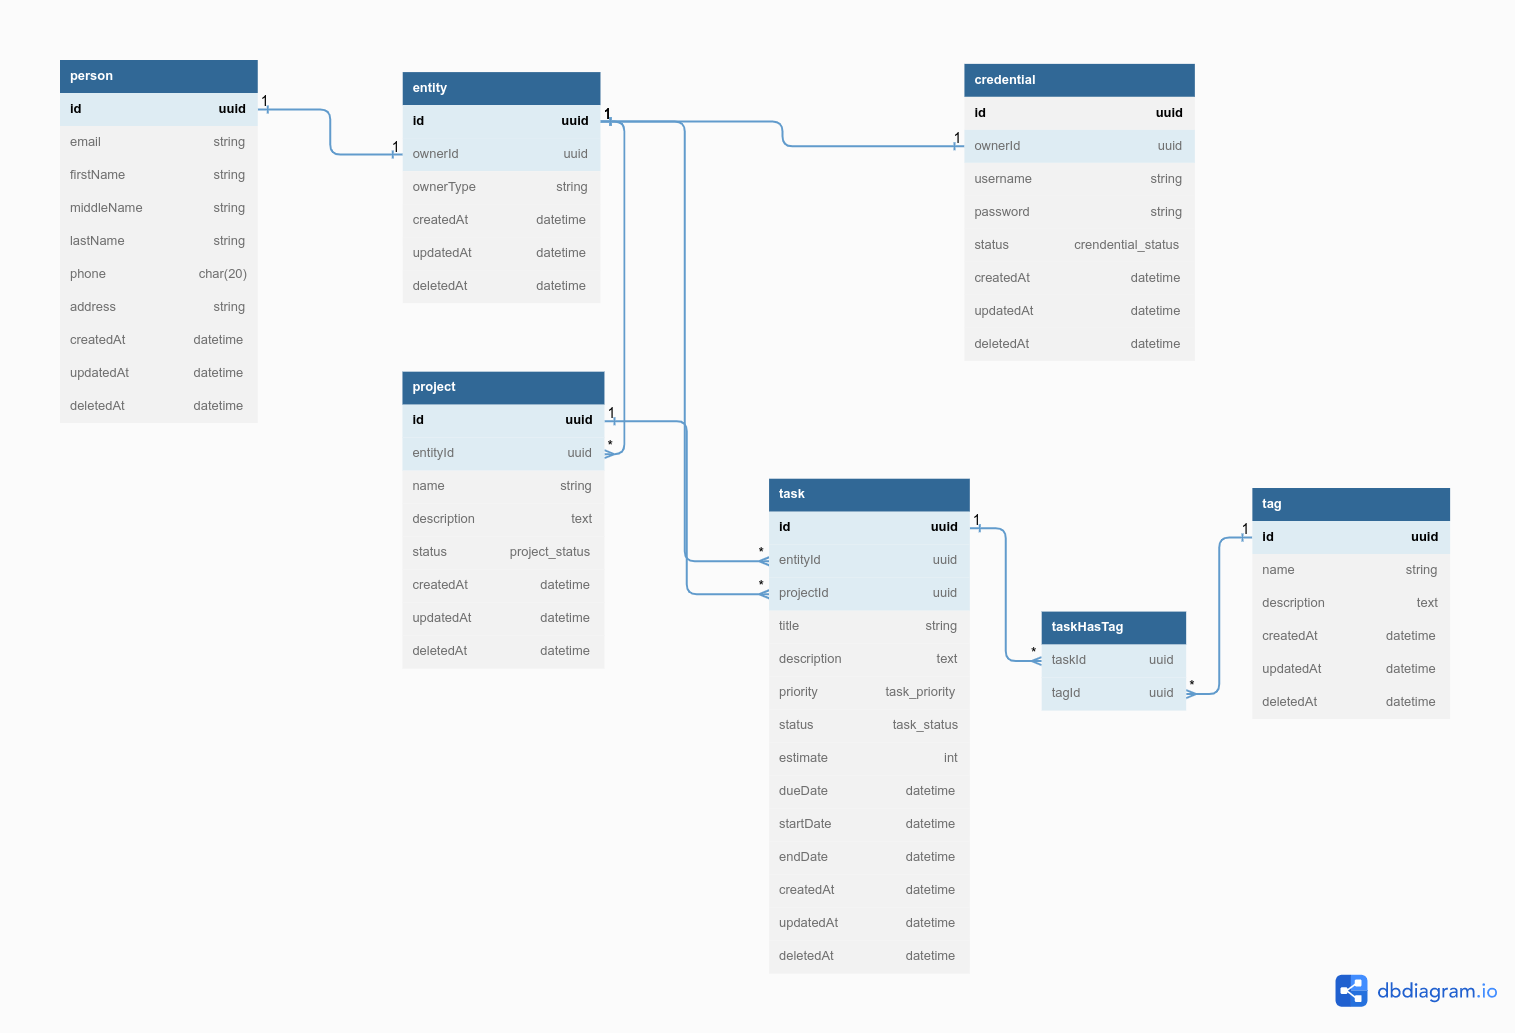
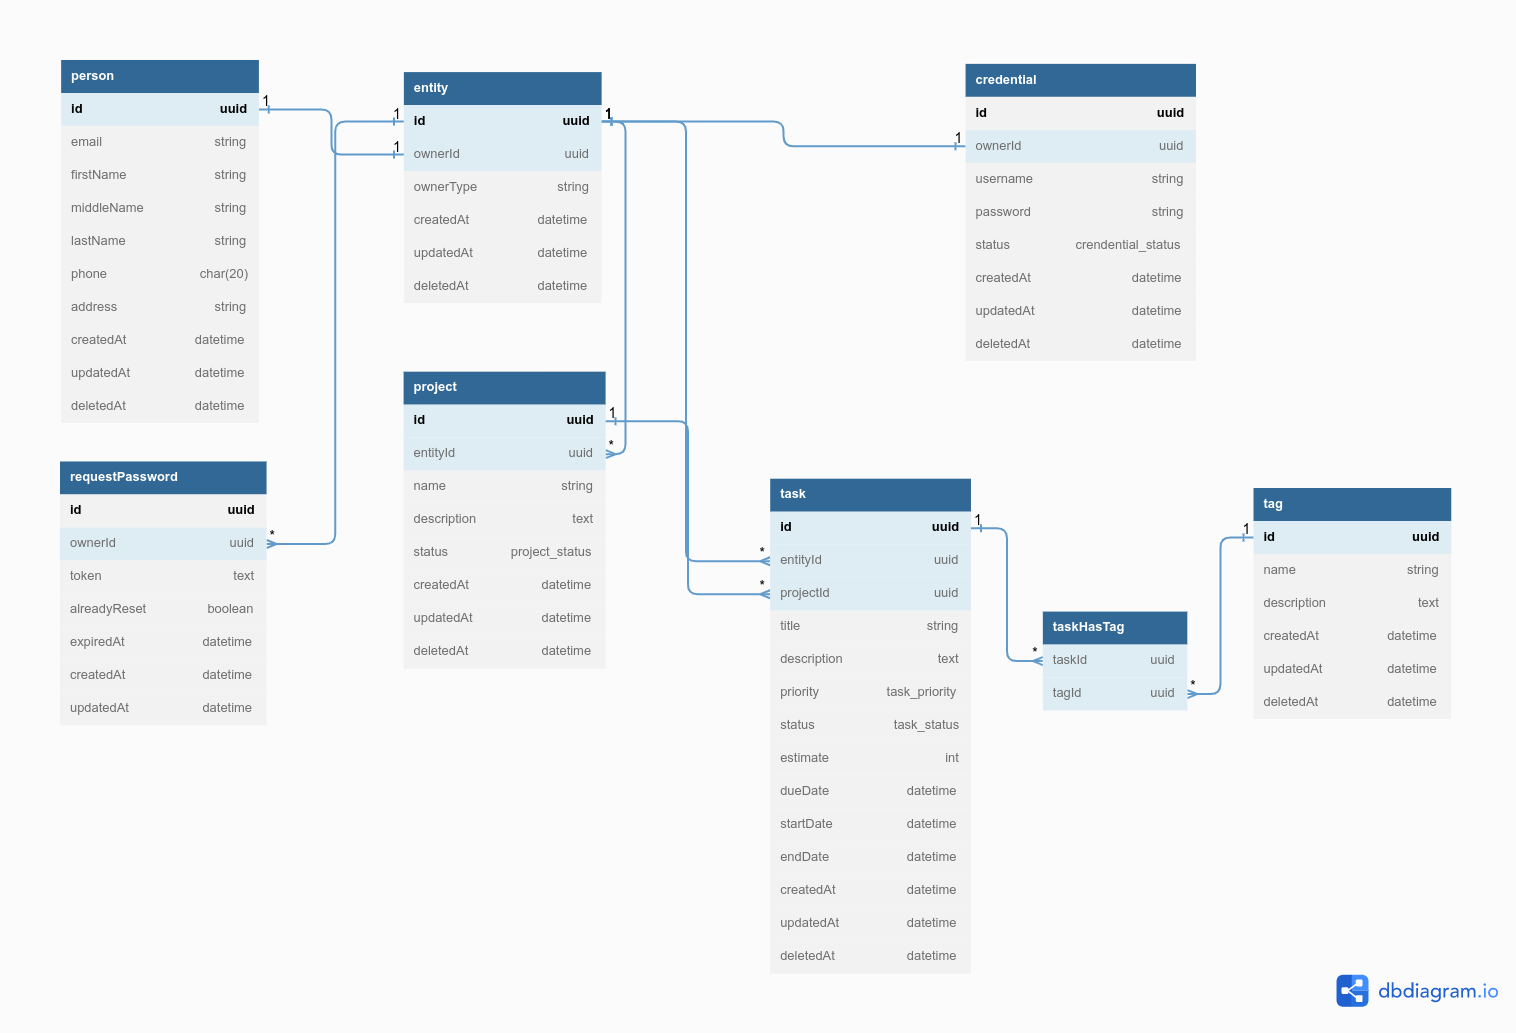
Change the task structure

diff --git a/README.md b/README.md
@@ -2,22 +2,19 @@
 
 ## What we will have in this application?
 
-### Authentication
+### Authentication/Credential
 - Register user to the application
 - Reset password
 - Forgot password
 - User will have: uuid, first_name, last_name, created_at, updated_at, deleted_at
-- Credential will have: uuid, user_id, username, email, password, created_at, updated_at, deleted_at
+- Credential will have: uuid, user_id, username, password, created_at, updated_at, deleted_at
+- Request Password:
+  - The data will be store when request the password changed
+  - Will have: uuid, owner_id, token, alreadReset, expiredAt, createdAt, updatedAt
 
 ### User with Project and Task
 - User can have many projects
 - User can have many tasks through project
-
-### User with Priority
-- User can have many priorities
-
-### User with Tag
-- User can have many tags
 
 ### Project
 - Start on the left hand side
@@ -26,12 +23,6 @@
 - Project will have: uuid, title, position, create_at, updated_at, deleted_at
 - Project may be have multiple tags (**will implement in the future**)
 - Project belongs to user
-
-### Priority
-- Will have 4 master priority and can't be CRUD this.
-- 4 master priority: low, normal, high, highest
-- Priority belongs to user
-- Priority will have: uuid, user_id, title, color, is_master, created_at, updated_at, deleted_at
 
 ### Task
 - CRUD a task
@@ -42,29 +33,30 @@
 - Task will have: uuid, priority_id, project_id, title, description, status, start_time, end_time, created_at, updated_at, deleted_at
 
     - Status will be open, in-progress, completed and archived
+        - Backlog: task stay back and will be 
         - Open: new task
         - In-progress: working task
         - Completed: complete task
         - Archived: archive task. We will have a link or a button that direct to archived list view and can recover a archived task
 
-    - Start Time: can null. This is the start time of the task.
-        - 10 mins notification before start task: "The task will start at hh:mm."
+- Estimate time: estimate the time to complete the task, store in database as minute --> will convert to `x day y hour z minute v seconds`
+- Start date: the date where the task will be start
+- End date: the date where the task will be end
+- Due date: the real date that the task will be completed and deliver to client
 
-    - End Time: can null. This is the end time of the task.
-        - 10 mins notification before end task: "The task will end at hh:mm."
-        - 1 mins or 30 second notification after end task: "The task has been ended."
-
-- Priority: low, normal, high, highest. This will map to priority table
+- Priority will have the level from 0 to 5
+  - 0
+  - 1
+  - 2
+  - 3
+  - 4
+  - 5
 
 ### Tag
 - CRUD a tag
 - Tag belongs to user
 - Tag will have: uuid, user_id, title, color, created_at, updated_at, deleted_at
 - Tag belong to many tasks => we will have a taggable
-
-### Project Has Tag
-- Project can have many tags
-- ProjectHasTag will have: uuid, project_id, tag_id
 
 ### Task Has Tag
 - Task can have many tags
@@ -77,7 +69,7 @@
 - NodeJS
 - ExpressJS
 - Sequelize
-- MySQL
+- PostgreSQL
 
 ## Database
 
